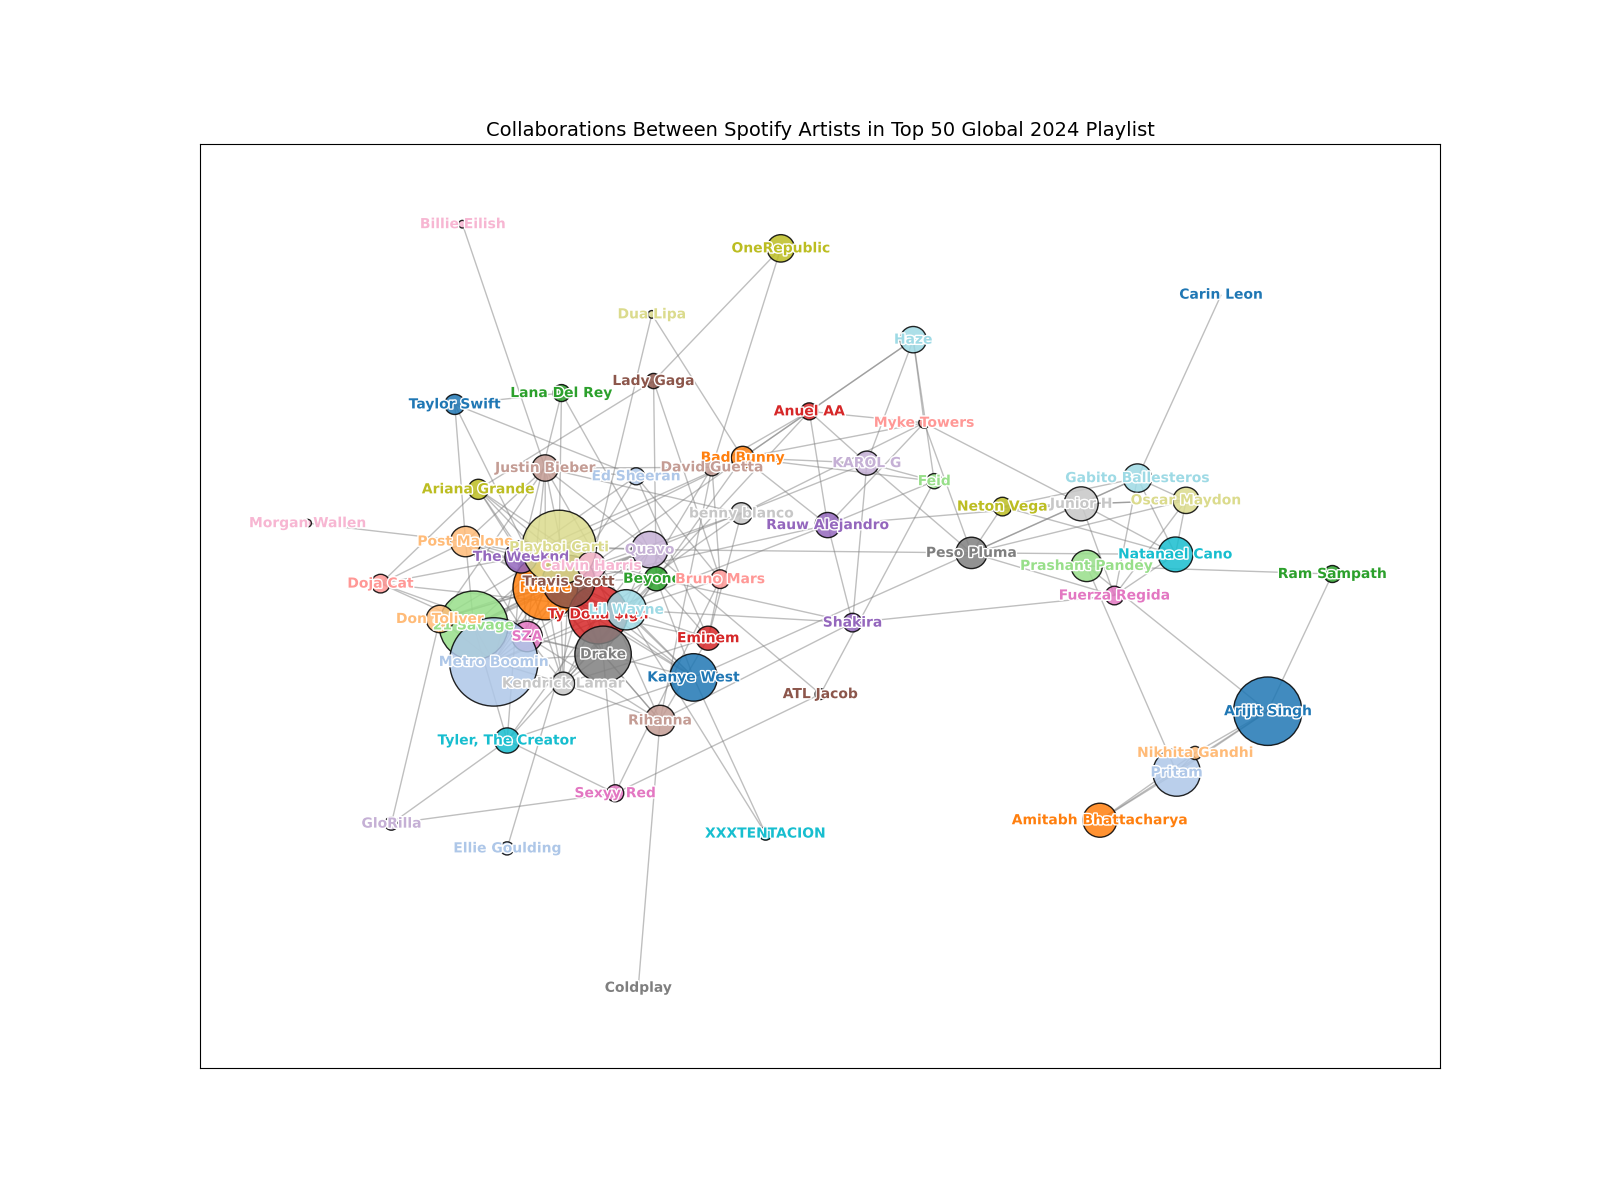
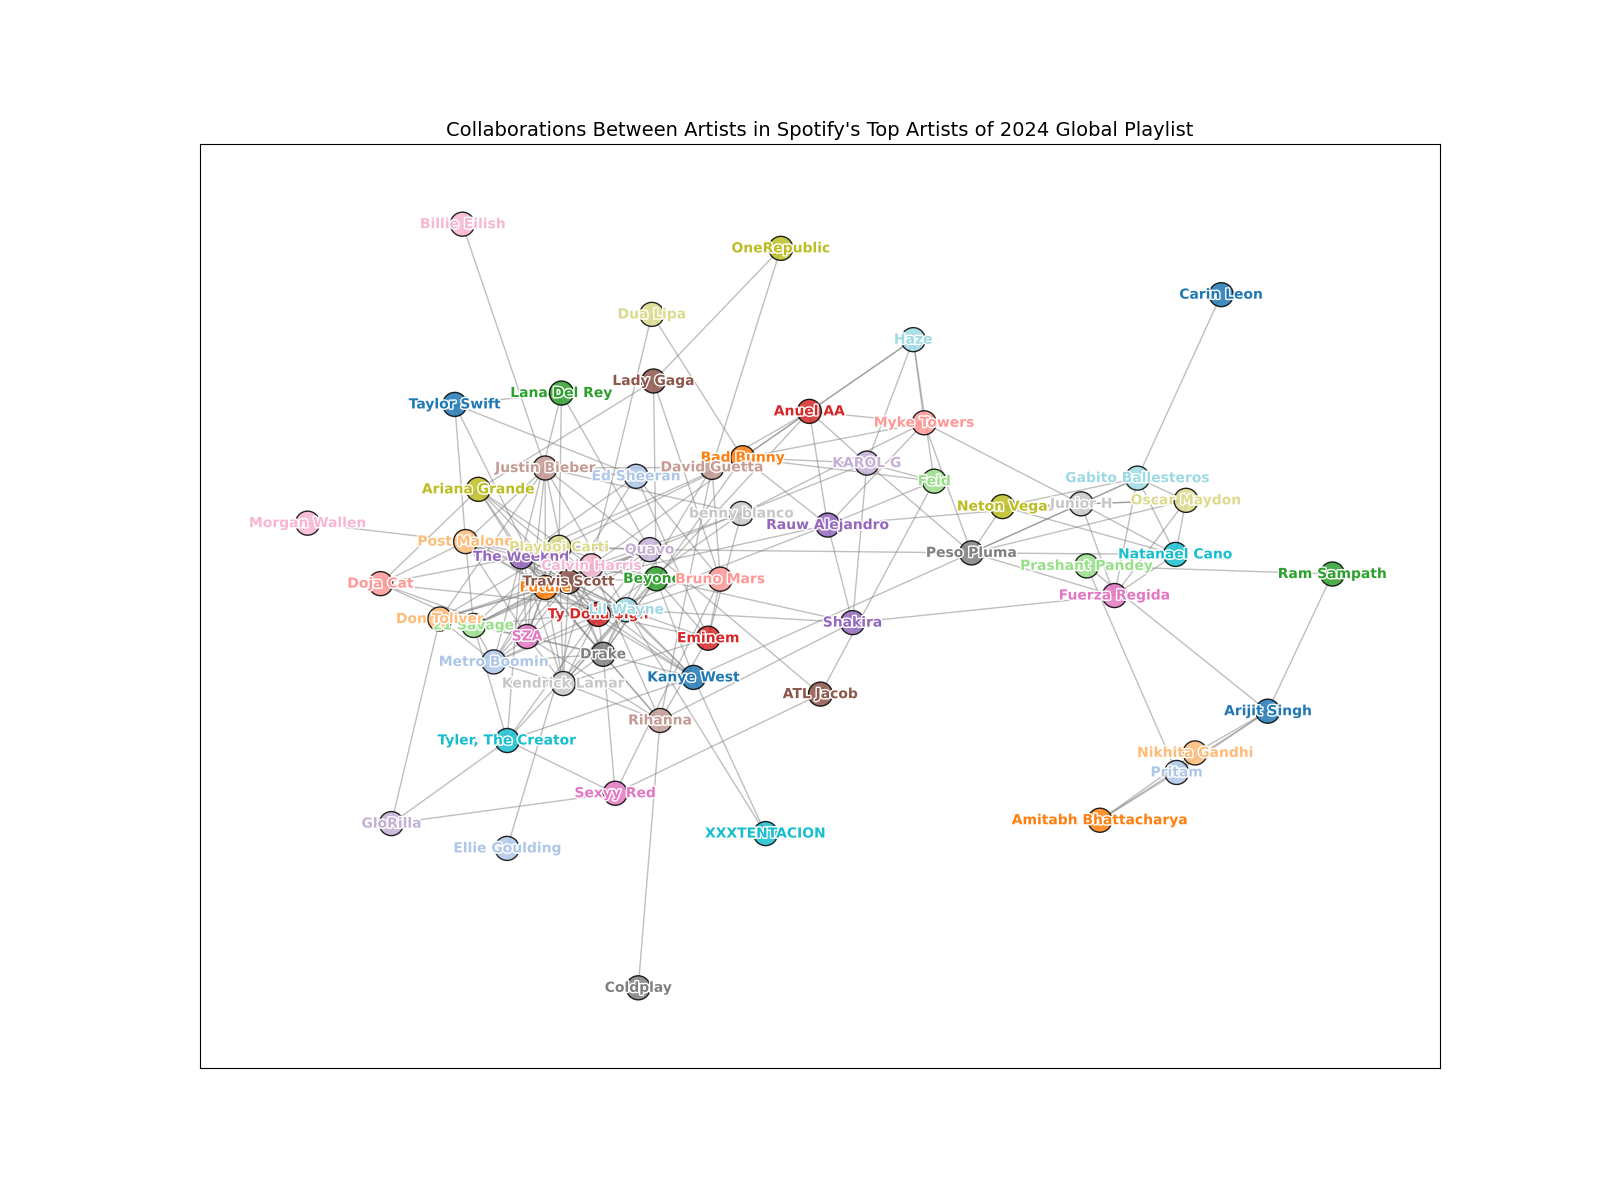
Fix code and change output CSV to only show degree centrality

diff --git a/Module2/extract_process_api_data.py b/Module2/extract_process_api_data.py
@@ -1,12 +1,15 @@
 from auth import get_token, get_auth_header
 from requests import get
 import json
+import os
+from dotenv import load_dotenv
 from collections import OrderedDict
 from datetime import datetime
 
 def get_top_artists(token, playlist_id):
     """
-    returns a dictionary of the top artists' names and Spotify ids on the c
+    returns a dictionary containing the Spotify ids (keys)
+    and artists' names (values) from the Top Artists of 2024 Global playlist
     """
     top_artists = {}
     query_url = f"https://api.spotify.com/v1/playlists/{playlist_id}?market=US&fields=tracks.items%28track%28artists%28id%2C+name%29"
@@ -24,7 +27,8 @@ def get_top_artists(token, playlist_id):
 
 def get_artist_albums(token, artist_id):
     """
-    returns a sorted dictionary with keys being album_id and values being album name
+    returns a sorted dictionary with keys being album_id and values being album names 
+    (In other words, albums by the artist which artist_id belongs to)
     """
     artist_albums = {}
     query_url = f"https://api.spotify.com/v1/artists/{artist_id}/albums?market=US"
@@ -65,8 +69,9 @@ def get_artist_collaborations(token, album_id, album_artist, artist_collaboratio
 
 def main():
     token = get_token()
+    playlist_id = os.getenv("PLAYLIST_ID")
     collaboration_data = []
-    top_artists = get_top_artists(token, "2zgxFGz72M84blKIBj08Sm")
+    top_artists = get_top_artists(token, playlist_id)
     # setting x and y prevents getting rate limited by API before all data is collected
     x = 61  # inclusive index 
     y = 69  # non_inclusive index
@@ -130,7 +135,7 @@ def main():
         with open(f"./Spotify_API_data/artists_{x}_to_{y}.json", "w") as file: 
             json.dump(collaboration_data, file, indent=2)
  
-    print("Finished writing data to file.")
+    print("Finished writing data to files.")
 
 
 if __name__ == "__main__":

diff --git a/Module2/network_analysis.py b/Module2/network_analysis.py
@@ -34,7 +34,7 @@ for artist in data:
         G.add_edge(artist_name, collaborator)
 
 # Assign node sizes based on total collaborations
-node_sizes = [collaboration_counts[n] * 30 for n in G.nodes()]
+# node_sizes = [collaboration_counts[n] * 30 for n in G.nodes()]
 
 # Use a colormap for distinct colors
 cmap = cm.get_cmap("tab20")  # 20 distinct colors
@@ -47,7 +47,7 @@ pos = nx.spring_layout(G, k=0.5, seed=42)  # Increase `k` to spread nodes apart
 
 # Draw nodes (colored based on artist names)
 node_colors = [colors[n] for n in G.nodes()]
-nx.draw_networkx_nodes(G, pos, node_size=node_sizes,
+nx.draw_networkx_nodes(G, pos, #node_size=node_sizes,
                        node_color=node_colors, edgecolors="black", alpha=0.85)
 
 # Draw edges
@@ -63,7 +63,7 @@ for artist, (x, y) in pos.items():
 
 # Add title
 plt.title(
-    "Collaborations Between Spotify Artists in Top 50 Global 2024 Playlist", fontsize=14)
+    "Collaborations Between Artists in Spotify's Top Artists of 2024 Global Playlist", fontsize=14)
 
 plt.savefig("./Outputs/spotify_artists_colab_graph.png")
 
@@ -74,7 +74,7 @@ combined_dict = {}
 for key in collaboration_counts:
     combined_dict[key] = {
         "Degree_Centrality": degree_centrality.get(key, 0),
-        "Number_of_Track_Collaborations": collaboration_counts.get(key, 0)
+        # "Number_of_Track_Collaborations": collaboration_counts.get(key, 0)
     }
 
 # Convert to DataFrame
